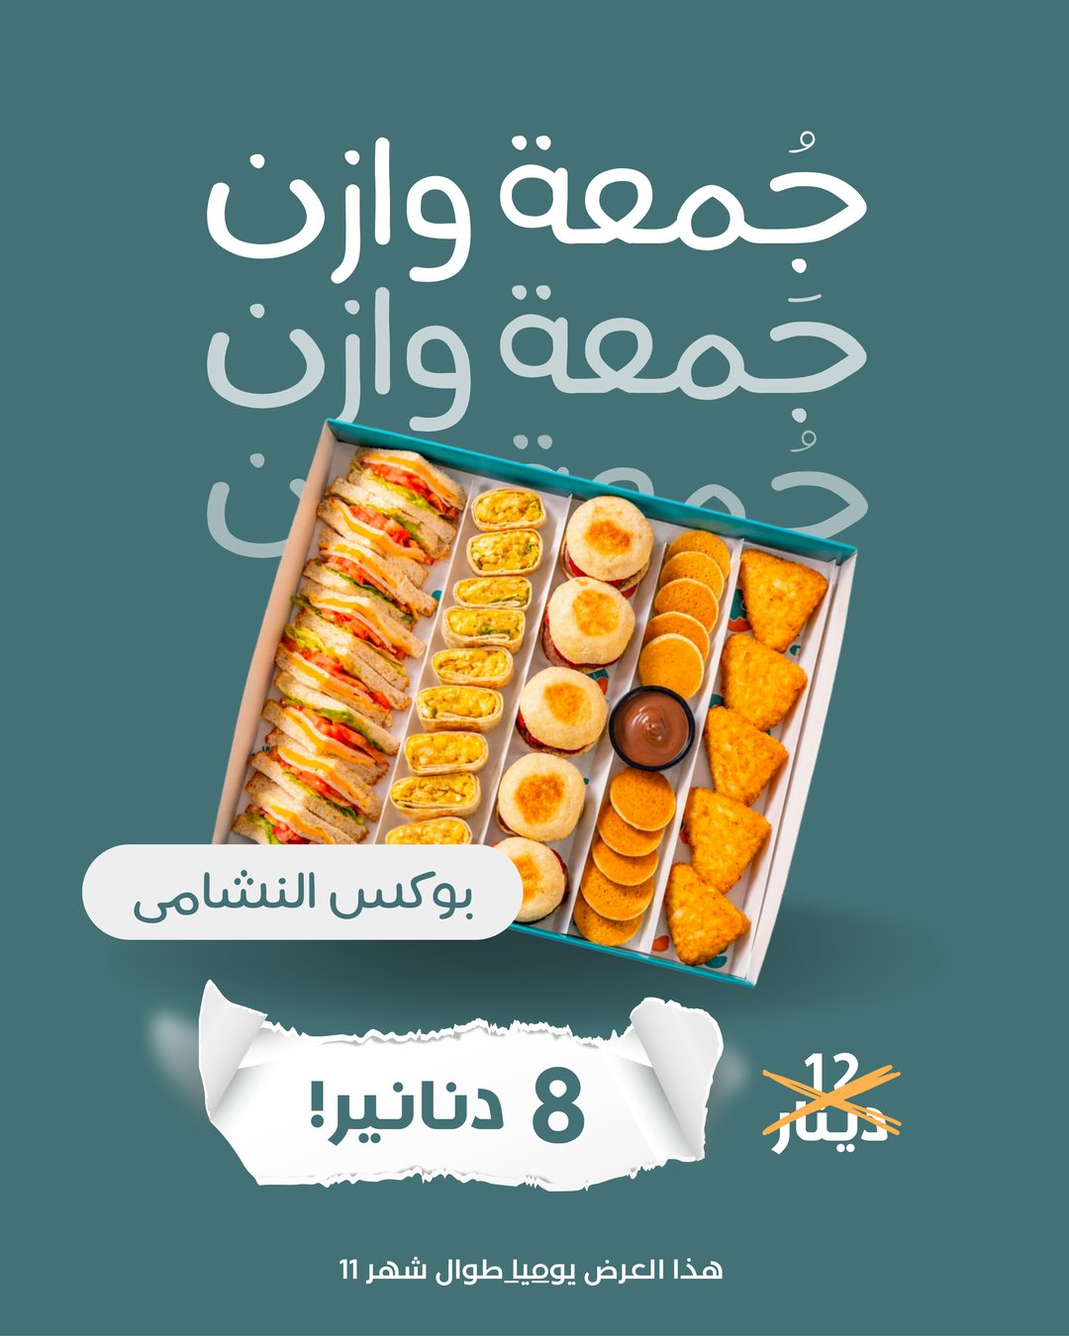
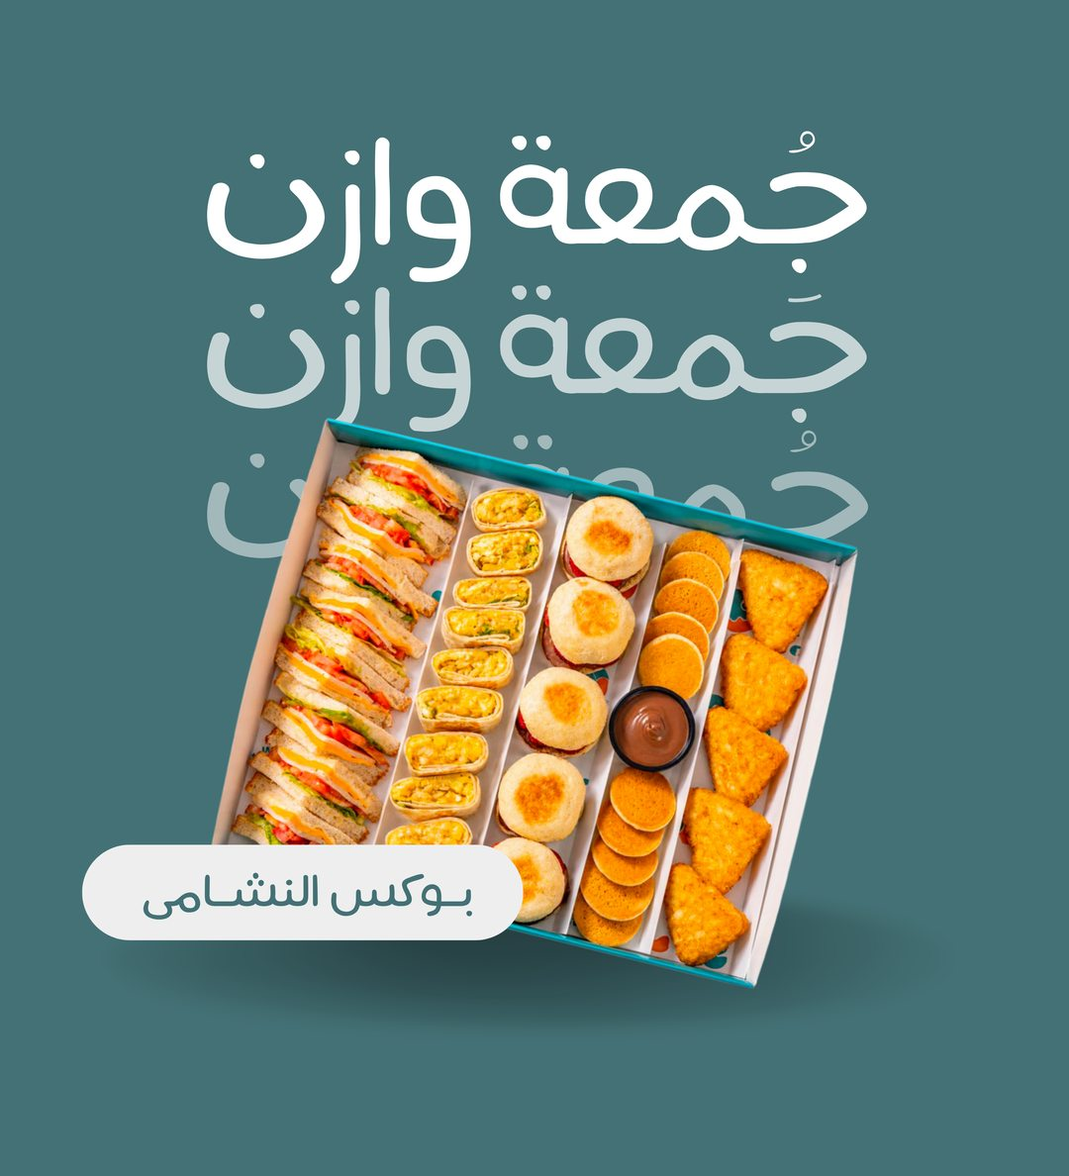
Edit November Offers

diff --git a/NovemberOffers/index.html b/NovemberOffers/index.html
@@ -4,13 +4,13 @@
 <meta charset="utf-8">
 <meta name="viewport" content="width=device-width, initial-scale=1">
 <title>جمعة وازن | عروض الطلب المباشر حتى 30 نوفمبر</title>
-<meta name="description" content="11 عرضاً بخصومات حتى 43% من وازن: بوكس النشامى بـ 8 دنانير بدل 12، وبوكس اللمة، وعروض البرغر والحلويات. للطلب المباشر عبر الواتساب أو الهاتف أو من الفرع، من 13 حتى 30 نوفمبر.">
+<meta name="description" content="عروض لجمعات الأهل والأصحاب: 11 عرضاً بخصومات حتى 44%، منها بوكس النشامى بـ 8 دنانير بدل 12. يومياً حتى نهاية نوفمبر، للطلب المباشر عبر الواتساب أو الهاتف أو من الفرع.">
 <meta name="theme-color" content="#447175">
 <link rel="canonical" href="https://wazenfoods.com/wazen-friday.html">
 <meta property="og:type" content="website">
 <meta property="og:locale" content="ar_JO">
 <meta property="og:title" content="جمعة وازن | عروض الطلب المباشر حتى 30 نوفمبر">
-<meta property="og:description" content="بوكس النشامى بـ 8 دنانير بدل 12، وخصومات حتى 43% على البوكسات والبرغر والحلويات. من 13 حتى 30 نوفمبر.">
+<meta property="og:description" content="عروض لجمعات الأهل والأصحاب بخصومات حتى 44%، يومياً حتى نهاية نوفمبر. بوكس النشامى بـ 8 دنانير بدل 12.">
 <meta property="og:url" content="https://wazenfoods.com/wazen-friday.html">
 <meta property="og:image" content="https://wazenfoods.com/images/offers/nashama-box.jpg">
 <meta name="twitter:card" content="summary_large_image">
@@ -103,7 +103,7 @@ a{color:inherit}
   .grid.c2{grid-template-columns:repeat(3,minmax(0,1fr))}
 }
 .card{background:#fff;border-radius:var(--radius);overflow:hidden;border:1px solid var(--line);display:flex;flex-direction:column;box-shadow:0 6px 18px rgba(46,79,82,.08);scroll-margin-top:72px}
-.poster{position:relative;aspect-ratio:4/5;background:var(--teal);container-type:inline-size;overflow:hidden}
+.poster{position:relative;aspect-ratio:10/11;background:var(--teal);container-type:inline-size;overflow:hidden}
 .poster img{position:absolute;inset:0;width:100%;height:100%;object-fit:cover}
 .body{padding:14px 14px 16px;display:flex;flex-direction:column;gap:8px;flex:1}
 .body h3{font-weight:300;font-size:1.25rem;line-height:1.35}
@@ -126,8 +126,14 @@ a{color:inherit}
 .ph-tag{margin-top:auto;background:#fff;color:var(--teal);border-radius:4cqw;padding:1.5cqw 8cqw;font-size:8cqw;transform:rotate(-2deg)}
 .ph-tag .num{font-size:11cqw}
 
+
+/* stay-tuned band */
+.soon{margin-top:38px;background:var(--orange);color:var(--ink);padding-block:26px;text-align:center}
+.soon-t{font-size:clamp(1.5rem,5.4vw,2.2rem);line-height:1.4}
+.soon-a{display:inline-flex;align-items:center;min-height:44px;margin-top:6px;font-size:1.05rem;text-underline-offset:4px}
+
 /* how to order */
-.order{background:var(--teal);color:#fff;padding-block:46px;margin-top:34px}
+.order{background:var(--teal);color:#fff;padding-block:46px;margin-top:0}
 .order h2,.branches h2,.terms h2{font-weight:300;font-size:clamp(1.8rem,6vw,2.6rem);line-height:1.3}
 .order .intro{margin-top:8px;max-width:60ch}
 .ways{display:grid;gap:14px;margin-top:22px}
@@ -168,19 +174,19 @@ a.way:hover{border-color:#fff}
 <header class="hero">
   <div class="wrap">
     <div class="top">
-      <a class="logo" href="index.html" aria-label="وازن - الصفحة الرئيسية"><img src="../assets/images/logo.png" alt="وازن" height="30" onerror="this.replaceWith(Object.assign(document.createElement('span'),{className:'wm',textContent:'وازن'}))"></a>
-      <a class="toplink" href="index.html">الموقع الرئيسي</a>
+      <a class="logo" href="https://wazenfoods.com/" aria-label="وازن - الصفحة الرئيسية"><img src="https://wazenfoods.com/assets/images/logo.png" alt="وازن" height="30" onerror="this.replaceWith(Object.assign(document.createElement('span'),{className:'wm',textContent:'وازن'}))"></a>
+      <a class="toplink" href="https://wazenfoods.com/">الموقع الرئيسي</a>
     </div>
     <div class="hero-grid">
       <div>
-        <p class="chip" id="status">يومياً من الجمعة 13 حتى 30 نوفمبر</p>
-        <h1 class="title"><span>جُمعة وازن</span><span aria-hidden="true">جُمعة وازن</span><span aria-hidden="true">جُمعة وازن</span></h1>
+        <p class="chip" id="status">يومياً حتى نهاية نوفمبر</p>
+        <h1 class="title"><span>جُمعة وازن</span><span aria-hidden="true">جَمعة وازن</span><span aria-hidden="true">جُمعة وازن</span></h1>
       </div>
       <div>
-        <p class="lead">عروض على البوكسات والبرغر والحلويات، لمن يطلب مباشرة من وازن.</p>
+        <p class="lead">عروض لـ«جَمعات» الأهل والأصحاب على البوكسات والبرغر والحلويات. تسري يومياً حتى نهاية نوفمبر، وليس يوم الجمعة فقط.</p>
         <ul class="stats">
           <li><span class="num">11</span> عرضاً</li>
-          <li>خصومات حتى <span class="num">43%</span></li>
+          <li>خصومات حتى <span class="num">44%</span></li>
           <li>في الفرعين</li>
         </ul>
         <div class="cta">
@@ -209,9 +215,8 @@ a.way:hover{border-color:#fff}
               <div class="ph-echo"><span>جُمعة وازن</span><span>جُمعة وازن</span></div>
               <div class="ph-frame">صورة العرض قريباً</div>
               <div class="ph-pill">بوكس النشامى</div>
-              <div class="ph-tag"><span class="num">8</span> دنانير</div>
             </div>
-            <img src="images/offers/nashama-box.jpg" width="1080" height="1350" loading="lazy" alt="بوكس النشامى بسعر 8 دنانير بدل 12 دينار - جمعة وازن" onerror="this.style.display='none'">
+            <img src="images/offers/nashama-box.jpg" width="1080" height="1188" loading="lazy" alt="بوكس النشامى بسعر 8 دنانير بدل 12 دينار - جمعة وازن" onerror="this.style.display='none'">
           </div>
           <div class="body">
             <h3>بوكس النشامى</h3>
@@ -227,13 +232,12 @@ a.way:hover{border-color:#fff}
               <div class="ph-echo"><span>جُمعة وازن</span><span>جُمعة وازن</span></div>
               <div class="ph-frame">صورة العرض قريباً</div>
               <div class="ph-pill">ميني توست</div>
-              <div class="ph-tag"><span class="num">8</span> دنانير</div>
             </div>
-            <img src="images/offers/mini-toast.jpg" width="1080" height="1350" loading="lazy" alt="ميني توست بسعر 8 دنانير بدل 14 دينار - جمعة وازن" onerror="this.style.display='none'">
+            <img src="images/offers/mini-toast.jpg" width="1080" height="1188" loading="lazy" alt="ميني توست بسعر 8 دنانير بدل 14 دينار - جمعة وازن" onerror="this.style.display='none'">
           </div>
           <div class="body">
             <h3>ميني توست</h3>
-
+            
             <p class="price"><span class="now"><span class="num">8</span> دنانير</span> <span class="vh">بدلاً من</span><s class="was">14 دينار</s></p>
             <p class="save"><span class="badge">خصم 43%</span> وفّر 6 دنانير</p>
             <a class="btn" href="https://wa.me/962797999094?text=%D9%85%D8%B1%D8%AD%D8%A8%D8%A7%D9%8B%20%D9%88%D8%A7%D8%B2%D9%86%D8%8C%20%D8%A8%D8%AF%D9%8A%20%D8%A3%D8%B7%D9%84%D8%A8%20%D9%85%D9%86%20%D8%B9%D8%B1%D9%88%D8%B6%20%D8%AC%D9%85%D8%B9%D8%A9%20%D9%88%D8%A7%D8%B2%D9%86%3A%20%D9%85%D9%8A%D9%86%D9%8A%20%D8%AA%D9%88%D8%B3%D8%AA%20%D8%A8%D8%B3%D8%B9%D8%B1%208%20%D8%AF%D9%86%D8%A7%D9%86%D9%8A%D8%B1." rel="noopener" aria-label="اطلب الآن: ميني توست عبر واتساب">اطلب الآن</a>
@@ -245,9 +249,8 @@ a.way:hover{border-color:#fff}
               <div class="ph-echo"><span>جُمعة وازن</span><span>جُمعة وازن</span></div>
               <div class="ph-frame">صورة العرض قريباً</div>
               <div class="ph-pill">بوكس الأنتيم</div>
-              <div class="ph-tag"><span class="num">5</span> دنانير</div>
             </div>
-            <img src="images/offers/intim-box.jpg" width="1080" height="1350" loading="lazy" alt="بوكس الأنتيم بسعر 5 دنانير بدل 6.9 دينار - جمعة وازن" onerror="this.style.display='none'">
+            <img src="images/offers/intim-box.jpg" width="1080" height="1188" loading="lazy" alt="بوكس الأنتيم بسعر 5 دنانير بدل 6.9 دينار - جمعة وازن" onerror="this.style.display='none'">
           </div>
           <div class="body">
             <h3>بوكس الأنتيم</h3>
@@ -271,9 +274,8 @@ a.way:hover{border-color:#fff}
               <div class="ph-echo"><span>جُمعة وازن</span><span>جُمعة وازن</span></div>
               <div class="ph-frame">صورة العرض قريباً</div>
               <div class="ph-pill">بوكس اللمة</div>
-              <div class="ph-tag"><span class="num">10</span> دنانير</div>
             </div>
-            <img src="images/offers/lammeh-box.jpg" width="1080" height="1350" loading="lazy" alt="بوكس اللمة بسعر 10 دنانير بدل 12.5 دينار - جمعة وازن" onerror="this.style.display='none'">
+            <img src="images/offers/lammeh-box.jpg" width="1080" height="1188" loading="lazy" alt="بوكس اللمة بسعر 10 دنانير بدل 12.5 دينار - جمعة وازن" onerror="this.style.display='none'">
           </div>
           <div class="body">
             <h3>بوكس اللمة</h3>
@@ -289,9 +291,8 @@ a.way:hover{border-color:#fff}
               <div class="ph-echo"><span>جُمعة وازن</span><span>جُمعة وازن</span></div>
               <div class="ph-frame">صورة العرض قريباً</div>
               <div class="ph-pill">بوكس البركة</div>
-              <div class="ph-tag"><span class="num">10</span> دنانير</div>
             </div>
-            <img src="images/offers/barakeh-box.jpg" width="1080" height="1350" loading="lazy" alt="بوكس البركة بسعر 10 دنانير بدل 11.5 دينار - جمعة وازن" onerror="this.style.display='none'">
+            <img src="images/offers/barakeh-box.jpg" width="1080" height="1188" loading="lazy" alt="بوكس البركة بسعر 10 دنانير بدل 11.5 دينار - جمعة وازن" onerror="this.style.display='none'">
           </div>
           <div class="body">
             <h3>بوكس البركة</h3>
@@ -315,9 +316,8 @@ a.way:hover{border-color:#fff}
               <div class="ph-echo"><span>جُمعة وازن</span><span>جُمعة وازن</span></div>
               <div class="ph-frame">صورة العرض قريباً</div>
               <div class="ph-pill">4 زنجر</div>
-              <div class="ph-tag"><span class="num">5</span> دنانير</div>
             </div>
-            <img src="images/offers/zinger-4.jpg" width="1080" height="1350" loading="lazy" alt="4 زنجر بسعر 5 دنانير بدل 7.2 دينار - جمعة وازن" onerror="this.style.display='none'">
+            <img src="images/offers/zinger-4.jpg" width="1080" height="1188" loading="lazy" alt="4 زنجر بسعر 5 دنانير بدل 7.2 دينار - جمعة وازن" onerror="this.style.display='none'">
           </div>
           <div class="body">
             <h3>4 زنجر</h3>
@@ -333,9 +333,8 @@ a.way:hover{border-color:#fff}
               <div class="ph-echo"><span>جُمعة وازن</span><span>جُمعة وازن</span></div>
               <div class="ph-frame">صورة العرض قريباً</div>
               <div class="ph-pill">2 دجاج + 2 لحمة</div>
-              <div class="ph-tag"><span class="num">5</span> دنانير</div>
             </div>
-            <img src="images/offers/chicken-beef-2-2.jpg" width="1080" height="1350" loading="lazy" alt="2 دجاج + 2 لحمة بسعر 5 دنانير بدل 6.5 دينار - جمعة وازن" onerror="this.style.display='none'">
+            <img src="images/offers/chicken-beef-2-2.jpg" width="1080" height="1188" loading="lazy" alt="2 دجاج + 2 لحمة بسعر 5 دنانير بدل 6.5 دينار - جمعة وازن" onerror="this.style.display='none'">
           </div>
           <div class="body">
             <h3>2 دجاج + 2 لحمة</h3>
@@ -351,9 +350,8 @@ a.way:hover{border-color:#fff}
               <div class="ph-echo"><span>جُمعة وازن</span><span>جُمعة وازن</span></div>
               <div class="ph-frame">صورة العرض قريباً</div>
               <div class="ph-pill">4 جراند</div>
-              <div class="ph-tag"><span class="num">8</span> دنانير</div>
             </div>
-            <img src="images/offers/grand-4.jpg" width="1080" height="1350" loading="lazy" alt="4 جراند بسعر 8 دنانير بدل 12 دينار - جمعة وازن" onerror="this.style.display='none'">
+            <img src="images/offers/grand-4.jpg" width="1080" height="1188" loading="lazy" alt="4 جراند بسعر 8 دنانير بدل 12 دينار - جمعة وازن" onerror="this.style.display='none'">
           </div>
           <div class="body">
             <h3>4 جراند</h3>
@@ -369,9 +367,8 @@ a.way:hover{border-color:#fff}
               <div class="ph-echo"><span>جُمعة وازن</span><span>جُمعة وازن</span></div>
               <div class="ph-frame">صورة العرض قريباً</div>
               <div class="ph-pill">2 مشروم + 2 سموكي</div>
-              <div class="ph-tag"><span class="num">12</span> دينار</div>
             </div>
-            <img src="images/offers/mushroom-smoky-2-2.jpg" width="1080" height="1350" loading="lazy" alt="2 مشروم + 2 سموكي بسعر 12 دينار بدل 15 دينار - جمعة وازن" onerror="this.style.display='none'">
+            <img src="images/offers/mushroom-smoky-2-2.jpg" width="1080" height="1188" loading="lazy" alt="2 مشروم + 2 سموكي بسعر 12 دينار بدل 15 دينار - جمعة وازن" onerror="this.style.display='none'">
           </div>
           <div class="body">
             <h3>2 مشروم + 2 سموكي</h3>
@@ -395,15 +392,14 @@ a.way:hover{border-color:#fff}
               <div class="ph-echo"><span>جُمعة وازن</span><span>جُمعة وازن</span></div>
               <div class="ph-frame">صورة العرض قريباً</div>
               <div class="ph-pill">بوكس حلو</div>
-              <div class="ph-tag"><span class="num">7</span> دنانير</div>
             </div>
-            <img src="images/offers/sweet-box.jpg" width="1080" height="1350" loading="lazy" alt="بوكس حلو بسعر 7 دنانير بدل 11.25 دينار - جمعة وازن" onerror="this.style.display='none'">
+            <img src="images/offers/sweet-box.jpg" width="1080" height="1188" loading="lazy" alt="بوكس حلو بسعر 7 دنانير بدل 12.5 دينار - جمعة وازن" onerror="this.style.display='none'">
           </div>
           <div class="body">
             <h3>بوكس حلو</h3>
-
-            <p class="price"><span class="now"><span class="num">7</span> دنانير</span> <span class="vh">بدلاً من</span><s class="was">11.25 دينار</s></p>
-            <p class="save"><span class="badge">خصم 38%</span> وفّر 4.25 دينار</p>
+            
+            <p class="price"><span class="now"><span class="num">7</span> دنانير</span> <span class="vh">بدلاً من</span><s class="was">12.5 دينار</s></p>
+            <p class="save"><span class="badge">خصم 44%</span> وفّر 5.5 دينار</p>
             <a class="btn" href="https://wa.me/962797999094?text=%D9%85%D8%B1%D8%AD%D8%A8%D8%A7%D9%8B%20%D9%88%D8%A7%D8%B2%D9%86%D8%8C%20%D8%A8%D8%AF%D9%8A%20%D8%A3%D8%B7%D9%84%D8%A8%20%D9%85%D9%86%20%D8%B9%D8%B1%D9%88%D8%B6%20%D8%AC%D9%85%D8%B9%D8%A9%20%D9%88%D8%A7%D8%B2%D9%86%3A%20%D8%A8%D9%88%D9%83%D8%B3%20%D8%AD%D9%84%D9%88%20%D8%A8%D8%B3%D8%B9%D8%B1%207%20%D8%AF%D9%86%D8%A7%D9%86%D9%8A%D8%B1." rel="noopener" aria-label="اطلب الآن: بوكس حلو عبر واتساب">اطلب الآن</a>
           </div>
         </article>
@@ -413,13 +409,12 @@ a.way:hover{border-color:#fff}
               <div class="ph-echo"><span>جُمعة وازن</span><span>جُمعة وازن</span></div>
               <div class="ph-frame">صورة العرض قريباً</div>
               <div class="ph-pill">2 سحلب + 2 هوت شوكليت</div>
-              <div class="ph-tag"><span class="num">3</span> دنانير</div>
             </div>
-            <img src="images/offers/sahlab-hotchoc.jpg" width="1080" height="1350" loading="lazy" alt="2 سحلب + 2 هوت شوكليت بسعر 3 دنانير بدل 4.5 دينار - جمعة وازن" onerror="this.style.display='none'">
+            <img src="images/offers/sahlab-hotchoc.jpg" width="1080" height="1188" loading="lazy" alt="2 سحلب + 2 هوت شوكليت بسعر 3 دنانير بدل 4.5 دينار - جمعة وازن" onerror="this.style.display='none'">
           </div>
           <div class="body">
             <h3>2 سحلب + 2 هوت شوكليت</h3>
-
+            
             <p class="price"><span class="now"><span class="num">3</span> دنانير</span> <span class="vh">بدلاً من</span><s class="was">4.5 دينار</s></p>
             <p class="save"><span class="badge">خصم 33%</span> وفّر 1.5 دينار</p>
             <a class="btn" href="https://wa.me/962797999094?text=%D9%85%D8%B1%D8%AD%D8%A8%D8%A7%D9%8B%20%D9%88%D8%A7%D8%B2%D9%86%D8%8C%20%D8%A8%D8%AF%D9%8A%20%D8%A3%D8%B7%D9%84%D8%A8%20%D9%85%D9%86%20%D8%B9%D8%B1%D9%88%D8%B6%20%D8%AC%D9%85%D8%B9%D8%A9%20%D9%88%D8%A7%D8%B2%D9%86%3A%202%20%D8%B3%D8%AD%D9%84%D8%A8%20%2B%202%20%D9%87%D9%88%D8%AA%20%D8%B4%D9%88%D9%83%D9%84%D9%8A%D8%AA%20%D8%A8%D8%B3%D8%B9%D8%B1%203%20%D8%AF%D9%86%D8%A7%D9%86%D9%8A%D8%B1." rel="noopener" aria-label="اطلب الآن: 2 سحلب + 2 هوت شوكليت عبر واتساب">اطلب الآن</a>
@@ -428,6 +423,13 @@ a.way:hover{border-color:#fff}
         </div>
       </div>
     </section>
+
+  <section class="soon" aria-label="عروض الجمعة القادمة">
+    <div class="wrap">
+      <p class="soon-t">ترقبوا عروض إضافية كل يوم جمعة</p>
+      <a class="soon-a" href="https://www.instagram.com/wazen_foods/" rel="noopener">تابعونا على إنستغرام</a>
+    </div>
+  </section>
 
   <section class="order" id="order" aria-labelledby="h-order">
     <div class="wrap">
@@ -477,7 +479,7 @@ a.way:hover{border-color:#fff}
     <div class="wrap">
       <h2 id="h-terms">شروط العروض</h2>
       <ul>
-        <li>العروض سارية يومياً من الجمعة 13 نوفمبر حتى 30 نوفمبر 2026.</li>
+        <li>العروض سارية يومياً حتى نهاية نوفمبر 2026، وليس يوم الجمعة فقط.</li>
         <li>العروض متوفرة في فرعي شفا بدران وشارع مكة.</li>
         <li>الطلب المباشر فقط: من المطعم، أو توصيل من المطعم عبر الهاتف أو الواتساب. لا تشمل تطبيقات التوصيل.</li>
         <li>الأسعار بالدينار الأردني. أجور التوصيل حسب المنطقة.</li>
@@ -490,9 +492,9 @@ a.way:hover{border-color:#fff}
   <div class="wrap">
     <p class="tag">وازن، خيارك المتوازن</p>
     <nav aria-label="روابط وازن">
-      <a href="index.html">الموقع الرئيسي</a>
-      <a href="menu.html">قائمة شفا بدران</a>
-      <a href="meccah_street_menu.html">قائمة شارع مكة</a>
+      <a href="https://wazenfoods.com/">الموقع الرئيسي</a>
+      <a href="https://wazenfoods.com/menu.html">قائمة شفا بدران</a>
+      <a href="https://wazenfoods.com/meccah_street_menu.html">قائمة شارع مكة</a>
       <a href="https://www.instagram.com/wazen_foods/" rel="noopener">إنستغرام</a>
       <a href="https://www.facebook.com/wazen.food" rel="noopener">فيسبوك</a>
     </nav>
@@ -508,7 +510,7 @@ a.way:hover{border-color:#fff}
 /* Offer dates (Jordan time, UTC+3). To change them, edit these two lines. */
 (function () {
   try {
-    var START = new Date('2026-11-13T00:00:00+03:00');
+    var START = new Date('2026-11-12T00:00:00+03:00');
     var END = new Date('2026-12-01T00:00:00+03:00'); // the offer ends at the end of 30 Nov
     var now = new Date();
     var chip = document.getElementById('status');
@@ -516,9 +518,9 @@ a.way:hover{border-color:#fff}
     if (now < START) {
       var d = Math.ceil((START - now) / 864e5);
       var when = d === 1 ? 'غداً' : d === 2 ? 'بعد يومين' : d <= 10 ? 'بعد ' + d + ' أيام' : 'بعد ' + d + ' يوماً';
-      chip.textContent = 'تبدأ الجمعة 13 نوفمبر (' + when + ')';
+      chip.textContent = 'تبدأ العروض ' + when;
     } else if (now < END) {
-      chip.textContent = 'العروض سارية الآن حتى 30 نوفمبر';
+      chip.textContent = 'يومياً حتى نهاية نوفمبر';
     } else {
       chip.textContent = 'انتهت جمعة وازن';
       document.documentElement.classList.add('ended');
